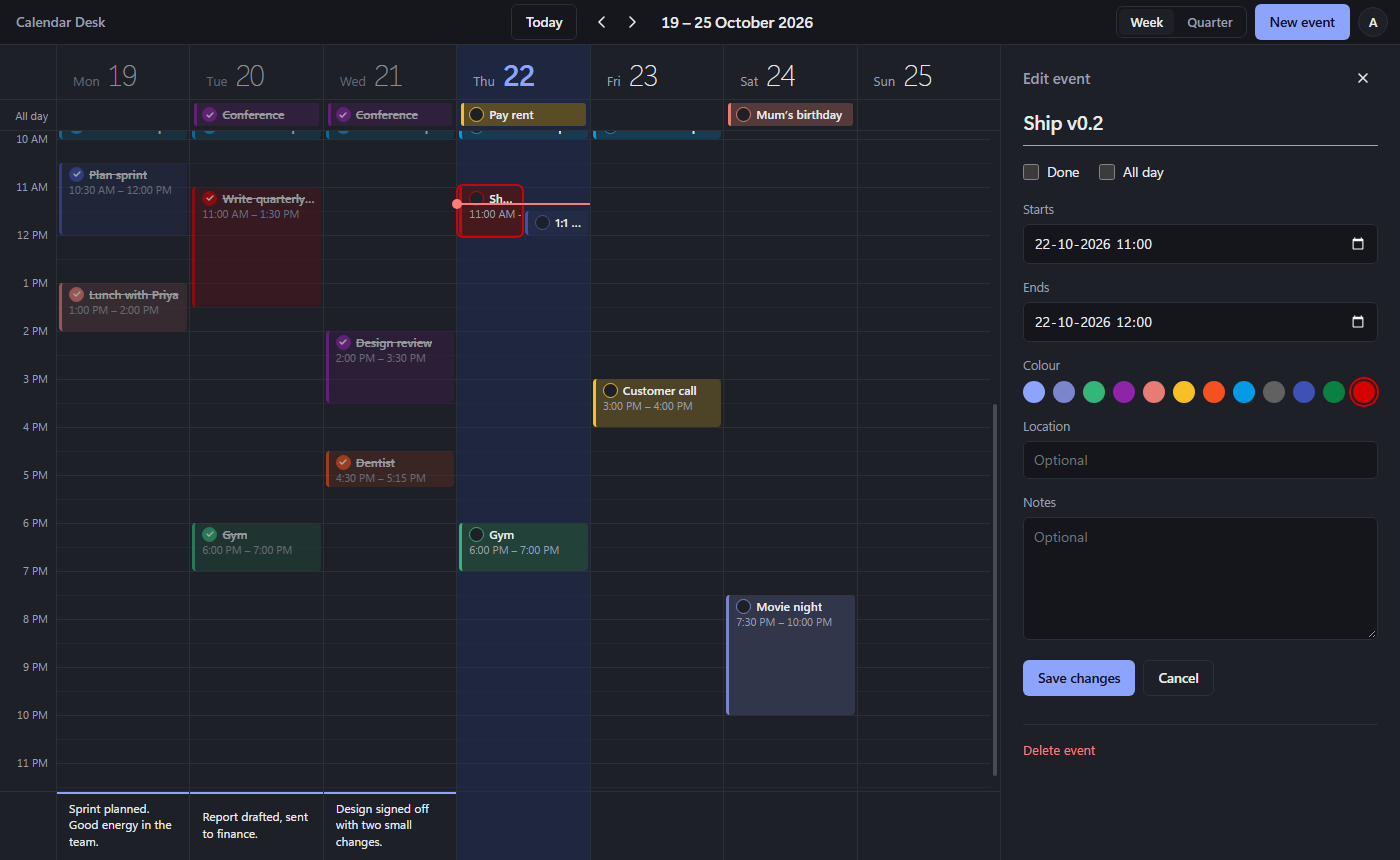
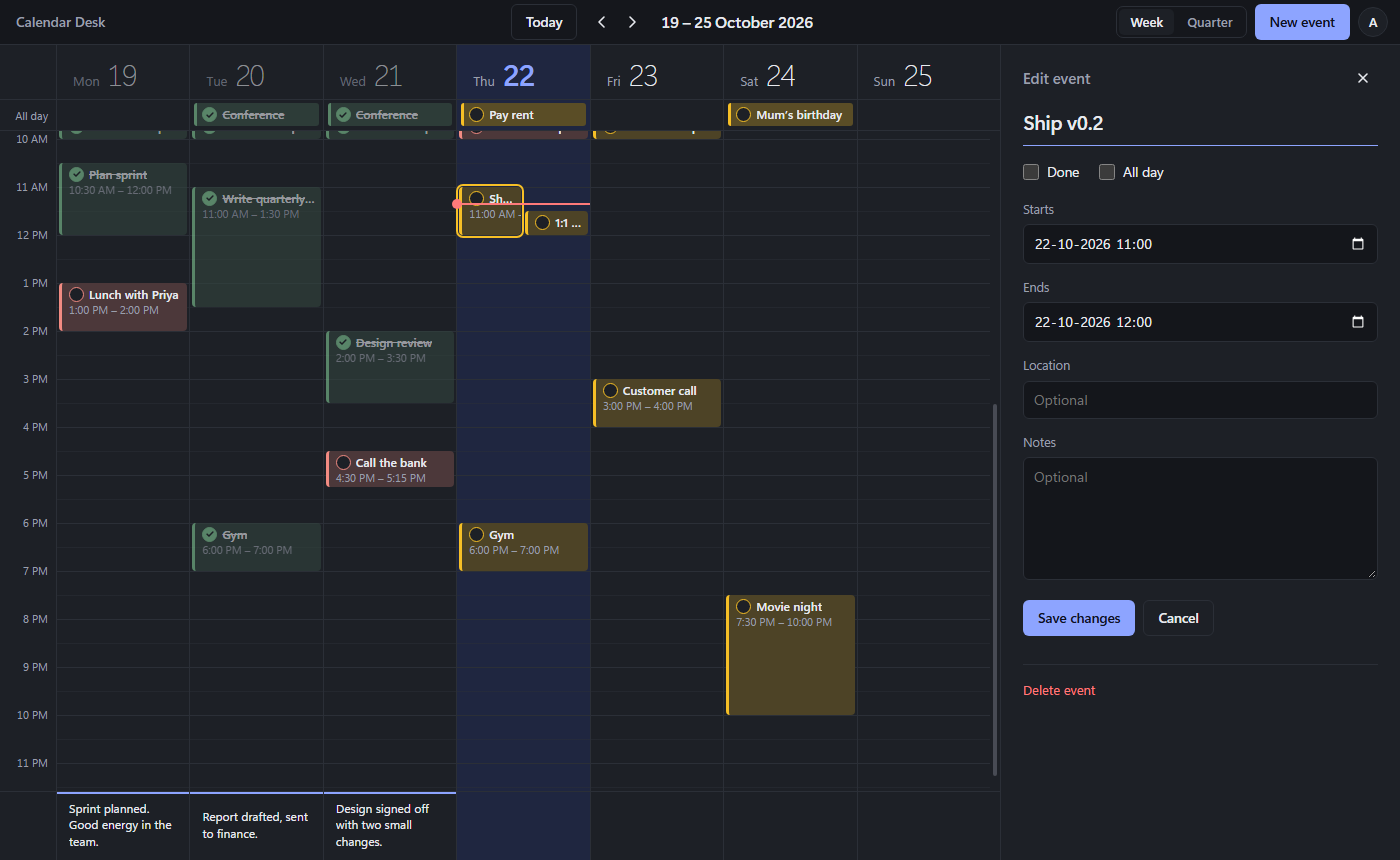
Colour events by status: yellow upcoming, red overdue, green done
Events are coloured live from the clock and the done tick instead of a
picked colour. An event turns red the minute its end time passes, and
green as soon as it is ticked. The colour picker is removed; colours set
in Google Calendar are kept on the event but not shown in the app.

README and screenshots updated to match.

diff --git a/src/renderer/src/components/WeekGrid.tsx b/src/renderer/src/components/WeekGrid.tsx
@@ -1,7 +1,8 @@
-import { useEffect, useLayoutEffect, useMemo, useRef, useState, type CSSProperties, type KeyboardEvent as ReactKeyboardEvent, type PointerEvent as ReactPointerEvent } from 'react'
+import { useLayoutEffect, useMemo, useRef, useState, type CSSProperties, type KeyboardEvent as ReactKeyboardEvent, type PointerEvent as ReactPointerEvent } from 'react'
 import type { CalendarEvent, DayNote, EventInput } from '../../../shared/types'
 import { addDays, dateKey, fmtDayName, fmtTime, isSameDay, startOfDay } from '../lib/dates'
-import { eventColor } from '../lib/colors'
+import { STATUS_LABEL, eventStatus, statusColor } from '../lib/colors'
+import { useNow } from '../lib/useNow'
 import DoneCheck from './DoneCheck'
 
 export const HOUR_PX = 48
@@ -128,12 +129,7 @@ export default function WeekGrid({ weekStart, events, notes, loading, selectedId
   const scrollRef = useRef<HTMLDivElement>(null)
   const downAt = useRef({ x: 0, y: 0 })
   const [drag, setDrag] = useState<Drag | null>(null)
-  const [now, setNow] = useState(() => new Date())
-
-  useEffect(() => {
-    const t = setInterval(() => setNow(new Date()), 60_000)
-    return () => clearInterval(t)
-  }, [])
+  const now = useNow()
 
   // First paint: scroll to a sensible hour instead of midnight.
   const scrolled = useRef(false)
@@ -312,7 +308,8 @@ export default function WeekGrid({ weekStart, events, notes, loading, selectedId
               <div
                 key={event.id}
                 className={`chip${event.id === selectedId ? ' is-selected' : ''}${event.done ? ' is-done' : ''}`}
-                style={{ '--c': eventColor(event.colorId) } as CSSProperties}
+                style={{ '--c': statusColor(event, now) } as CSSProperties}
+                title={`${event.summary} (${STATUS_LABEL[eventStatus(event, now)]})`}
               >
                 <DoneCheck event={event} onToggle={onToggleDone} />
                 <button type="button" className="chip__title" onClick={() => onSelect(event)}>
@@ -364,9 +361,9 @@ export default function WeekGrid({ weekStart, events, notes, loading, selectedId
                         height,
                         left: `calc(${(p.col / p.cols) * 100}% + 2px)`,
                         width: `calc(${100 / p.cols}% - 4px)`,
-                        '--c': eventColor(p.event.colorId)
+                        '--c': statusColor(p.event, now)
                       } as CSSProperties}
-                      title={`${p.event.summary}\n${fmtTime(p.event.start)} – ${fmtTime(p.event.end)}`}
+                      title={`${p.event.summary}\n${fmtTime(p.event.start)} – ${fmtTime(p.event.end)}\n${STATUS_LABEL[eventStatus(p.event, now)]}`}
                     >
                       <span className="tev__top">
                         <DoneCheck event={p.event} onToggle={onToggleDone} />

diff --git a/src/renderer/src/components/DayPanel.tsx b/src/renderer/src/components/DayPanel.tsx
@@ -1,7 +1,8 @@
 import { useCallback, useEffect, useRef, useState, type CSSProperties } from 'react'
 import type { CalendarEvent, DayNote } from '../../../shared/types'
 import { dateKey, fmtDayLong, fmtEventTime, fmtSavedAt, isSameDay } from '../lib/dates'
-import { eventColor } from '../lib/colors'
+import { eventStatus, statusColor } from '../lib/colors'
+import { useNow } from '../lib/useNow'
 import DoneCheck from './DoneCheck'
 
 interface Props {
@@ -22,6 +23,7 @@ const SAVE_DELAY = 700
 
 export default function DayPanel({ day, events, note, onSaveNote, onSelect, onToggleDone, onCreate, onOpenWeek, onClose, onReveal }: Props): React.JSX.Element {
   const key = dateKey(day)
+  const now = useNow()
   const [text, setText] = useState(note?.text ?? '')
   const [status, setStatus] = useState<Status>('idle')
   const [savedAt, setSavedAt] = useState<string | undefined>(note?.updatedAt)
@@ -116,10 +118,13 @@ export default function DayPanel({ day, events, note, onSaveNote, onSelect, onTo
           {events.length > 0 && `, ${events.filter((e) => e.done).length} done`}
         </h3>
         {events.map((e) => (
-          <div key={e.id} className={`event${e.allDay ? ' event--allday' : ''}${e.done ? ' is-done' : ''}`} style={{ '--c': eventColor(e.colorId) } as CSSProperties}>
+          <div key={e.id} className={`event${e.allDay ? ' event--allday' : ''}${e.done ? ' is-done' : ''}`} style={{ '--c': statusColor(e, now) } as CSSProperties}>
             <DoneCheck event={e} onToggle={onToggleDone} />
             <button type="button" className="event__body" onClick={() => onSelect(e)}>
-              <span className="event__time">{fmtEventTime(e)}</span>
+              <span className="event__time">
+                {fmtEventTime(e)}
+                {eventStatus(e, now) === 'overdue' && <span className="event__overdue"> · Overdue</span>}
+              </span>
               <span className="event__title">{e.summary}</span>
               {e.location && <span className="event__where">{e.location}</span>}
             </button>

diff --git a/src/renderer/src/styles.css b/src/renderer/src/styles.css
@@ -13,6 +13,11 @@
   --weekend: rgba(21, 24, 31, 0.035);
   --danger: #c62828;
 
+  /* Event status colours: upcoming, end time passed, ticked off. */
+  --status-upcoming: #e8a600;
+  --status-overdue: #d93025;
+  --status-done: #1e8e3e;
+
   --titlebar-h: 44px;
   --editor-w: 400px;
   --font: 'Segoe UI Variable Text', 'Segoe UI', system-ui, -apple-system, sans-serif;
@@ -34,6 +39,9 @@
     --today: #1f2640;
     --weekend: rgba(232, 234, 239, 0.035);
     --danger: #ff7a7a;
+    --status-upcoming: #f6bf26;
+    --status-overdue: #f28b82;
+    --status-done: #81c995;
   }
 }
 
@@ -628,7 +636,8 @@ textarea {
 }
 .tghost--pending {
   border-style: dashed;
-  background: color-mix(in srgb, var(--accent) 12%, transparent);
+  border-color: var(--status-upcoming);
+  background: color-mix(in srgb, var(--status-upcoming) 14%, transparent);
 }
 
 .tnow {
@@ -945,6 +954,10 @@ textarea {
 .event__title {
   font-weight: 600;
 }
+.event__overdue {
+  color: var(--status-overdue);
+  font-weight: 600;
+}
 .event:hover {
   background: color-mix(in srgb, var(--c) 24%, var(--surface));
 }
@@ -973,7 +986,7 @@ textarea {
 }
 .check.is-done {
   background: var(--c, var(--accent));
-  color: #fff;
+  color: var(--surface);
 }
 .tev.is-done,
 .chip.is-done,
@@ -1061,45 +1074,6 @@ textarea {
 .editor__toggles {
   display: flex;
   gap: 20px;
-}
-
-.swatches {
-  border: 0;
-  padding: 0;
-  margin-inline: 0;
-}
-.swatches legend {
-  padding: 0;
-  margin-bottom: 6px;
-  font-size: 12.5px;
-  color: var(--muted);
-}
-.swatches__row {
-  display: flex;
-  flex-wrap: wrap;
-  gap: 8px;
-}
-.swatch {
-  position: relative;
-  width: 22px;
-  height: 22px;
-  border-radius: 50%;
-  background: var(--c);
-  cursor: pointer;
-}
-.swatch input {
-  position: absolute;
-  inset: 0;
-  margin: 0;
-  opacity: 0;
-  cursor: pointer;
-}
-.swatch:has(input:checked) {
-  box-shadow: 0 0 0 2px var(--surface), 0 0 0 4px var(--c);
-}
-.swatch:has(input:focus-visible) {
-  outline: 2px solid var(--accent);
-  outline-offset: 4px;
 }
 
 .field {

diff --git a/src/renderer/src/components/EventEditor.tsx b/src/renderer/src/components/EventEditor.tsx
@@ -1,7 +1,6 @@
-import { useState, type CSSProperties, type FormEvent } from 'react'
+import { useState, type FormEvent } from 'react'
 import type { CalendarEvent, EventInput } from '../../../shared/types'
 import { addDays, dateKey, fromLocalInput, parseDateKey, toLocalInput } from '../lib/dates'
-import { EVENT_COLORS } from '../lib/colors'
 
 export type EditorState = { mode: 'create'; draft: EventInput } | { mode: 'edit'; event: CalendarEvent }
 
@@ -24,7 +23,8 @@ interface Form {
   end: string
   location: string
   description: string
-  /** '' means the calendar's default colour. */
+  /** Google's own colour, not editable here (the app colours by status);
+   *  carried through so saving doesn't wipe a colour set in Google Calendar. */
   colorId: string
   done: boolean
 }
@@ -165,16 +165,6 @@ export default function EventEditor({ state, busy, onClose, onSave, onDelete, on
           <label htmlFor="ev-end">Ends</label>
           <input id="ev-end" type={inputType} value={form.end} onChange={(e) => patch({ end: e.target.value })} disabled={busy} required />
         </div>
-        <fieldset className="field swatches" disabled={busy}>
-          <legend>Colour</legend>
-          <div className="swatches__row">
-            {[['', { name: 'Calendar default', hex: 'var(--accent)' }] as const, ...Object.entries(EVENT_COLORS)].map(([id, { name, hex }]) => (
-              <label key={id || 'default'} className="swatch" style={{ '--c': hex } as CSSProperties} title={name}>
-                <input type="radio" name="ev-color" value={id} checked={form.colorId === id} onChange={() => patch({ colorId: id })} aria-label={name} />
-              </label>
-            ))}
-          </div>
-        </fieldset>
         <div className="field">
           <label htmlFor="ev-where">Location</label>
           <input id="ev-where" type="text" value={form.location} onChange={(e) => patch({ location: e.target.value })} disabled={busy} placeholder="Optional" />

diff --git a/src/renderer/src/lib/colors.ts b/src/renderer/src/lib/colors.ts
@@ -1,19 +1,24 @@
-/** Google Calendar's event colour palette by colorId. Events without a
- *  colorId use the calendar's default, which the UI maps to the accent. */
-export const EVENT_COLORS: Record<string, { name: string; hex: string }> = {
-  '1': { name: 'Lavender', hex: '#7986cb' },
-  '2': { name: 'Sage', hex: '#33b679' },
-  '3': { name: 'Grape', hex: '#8e24aa' },
-  '4': { name: 'Flamingo', hex: '#e67c73' },
-  '5': { name: 'Banana', hex: '#f6bf26' },
-  '6': { name: 'Tangerine', hex: '#f4511e' },
-  '7': { name: 'Peacock', hex: '#039be5' },
-  '8': { name: 'Graphite', hex: '#616161' },
-  '9': { name: 'Blueberry', hex: '#3f51b5' },
-  '10': { name: 'Basil', hex: '#0b8043' },
-  '11': { name: 'Tomato', hex: '#d50000' }
+import type { CalendarEvent } from '../../../shared/types'
+import { parseDateKey } from './dates'
+
+export type EventStatus = 'upcoming' | 'overdue' | 'done'
+
+/** Done wins; otherwise an event is overdue once its end has passed. All-day
+ *  ends are exclusive dates, so a one-day event lapses at the next midnight. */
+export function eventStatus(e: CalendarEvent, now: Date): EventStatus {
+  if (e.done) return 'done'
+  const end = e.allDay ? parseDateKey(e.end) : new Date(e.end)
+  return end <= now ? 'overdue' : 'upcoming'
 }
 
-export function eventColor(colorId?: string): string {
-  return (colorId && EVENT_COLORS[colorId]?.hex) || 'var(--accent)'
+/** Status colours are worked out in the app only; Google's own colorId is
+ *  left alone. Values are theme tokens defined in styles.css. */
+export function statusColor(e: CalendarEvent, now: Date): string {
+  return `var(--status-${eventStatus(e, now)})`
+}
+
+export const STATUS_LABEL: Record<EventStatus, string> = {
+  upcoming: 'Not done',
+  overdue: 'Overdue',
+  done: 'Done'
 }

diff --git a/src/renderer/src/components/QuarterGrid.tsx b/src/renderer/src/components/QuarterGrid.tsx
@@ -2,7 +2,8 @@ import { useMemo, type CSSProperties } from 'react'
 import type { CalendarEvent, DayNote } from '../../../shared/types'
 import { addDays, addMonths, dateKey, daysInMonth, fmtMonthName, isSameDay } from '../lib/dates'
 import { groupEventsByDay } from '../lib/events'
-import { eventColor } from '../lib/colors'
+import { STATUS_LABEL, eventStatus, statusColor } from '../lib/colors'
+import { useNow } from '../lib/useNow'
 
 interface Props {
   quarterStart: Date
@@ -17,7 +18,7 @@ const MAX_BARS = 3
 const WEEKDAYS = ['Mon', 'Tue', 'Wed', 'Thu', 'Fri', 'Sat', 'Sun']
 
 export default function QuarterGrid({ quarterStart, events, notes, loading, openDay, onOpenDay }: Props): React.JSX.Element {
-  const today = new Date()
+  const today = useNow()
   const months = useMemo(() => [0, 1, 2].map((i) => addMonths(quarterStart, i)), [quarterStart])
   const byDay = useMemo(() => {
     const end = addMonths(quarterStart, 3)
@@ -63,7 +64,7 @@ export default function QuarterGrid({ quarterStart, events, notes, loading, open
                     {list.length > 0 && (
                       <span className="cell__bars">
                         {list.slice(0, MAX_BARS).map((e) => (
-                          <i key={e.id} className={e.done ? 'is-done' : undefined} style={{ '--c': eventColor(e.colorId) } as CSSProperties} title={e.done ? `${e.summary} (done)` : e.summary} />
+                          <i key={e.id} className={e.done ? 'is-done' : undefined} style={{ '--c': statusColor(e, today) } as CSSProperties} title={`${e.summary} (${STATUS_LABEL[eventStatus(e, today)]})`} />
                         ))}
                       </span>
                     )}

diff --git a/src/renderer/src/lib/useNow.ts b/src/renderer/src/lib/useNow.ts
@@ -1,0 +1,20 @@
+import { useEffect, useState } from 'react'
+
+/** The current time, refreshed on each minute boundary so overdue colours
+ *  and the now-line flip right when an event ends. */
+export function useNow(): Date {
+  const [now, setNow] = useState(() => new Date())
+  useEffect(() => {
+    let timer: ReturnType<typeof setTimeout>
+    const tick = (): void => {
+      const d = new Date()
+      setNow(d)
+      timer = setTimeout(tick, 60_000 - (d.getSeconds() * 1000 + d.getMilliseconds()))
+    }
+    timer = setTimeout(tick, 60_000 - (now.getSeconds() * 1000 + now.getMilliseconds()))
+    return () => clearTimeout(timer)
+    // Only the first render's time seeds the schedule.
+    // eslint-disable-next-line react-hooks/exhaustive-deps
+  }, [])
+  return now
+}

diff --git a/README.md b/README.md
@@ -12,7 +12,7 @@ See your week or your whole quarter at a glance, drag events into place, tick th
 ![Vite](https://img.shields.io/badge/electron--vite-6-646CFF?logo=vite&logoColor=white)
 ![Platform](https://img.shields.io/badge/platform-Windows-0078D4?logo=windows&logoColor=white)
 
-<img src="docs/week.png" alt="Calendar Desk week view: colour-coded events, ticked-off events struck through, and day summaries along the bottom" width="900">
+<img src="docs/week.png" alt="Calendar Desk week view: yellow upcoming events, red overdue events, green ticked-off events, and day summaries along the bottom" width="900">
 
 </div>
 
@@ -24,20 +24,20 @@ See your week or your whole quarter at a glance, drag events into place, tick th
 |---|---|
 | 🗓 **Week and quarter views** | A time grid for the current week, or three months side by side. Switch with `W` / `Q`. |
 | 🖱 **Drag to plan** | Click or drag on empty space to create an event. Drag an event to move it, or drag its bottom edge to change its length. |
-| ✅ **Done / not done** | Every event has a round tick. Click it to mark the event done: it's struck through and faded everywhere it appears. |
-| 🎨 **Colour coding** | Pick from Google Calendar's 11 colours. They sync both ways with Google Calendar on the web and on your phone. |
+| ✅ **Done / not done** | Every event has a round tick. Click it to mark the event done: it turns green and is struck through everywhere it appears. |
+| 🚦 **Status colours** | 🟡 **Yellow**: coming up or in progress · 🔴 **Red**: its end time has passed and it isn't ticked · 🟢 **Green**: done. Events turn red the minute they end, with no refresh needed. |
 | 📝 **Private day summaries** | Write a note for any day. It autosaves to a JSON file on your PC and is **never** sent to Google. |
 | 🔐 **Stays signed in, safely** | OAuth with PKCE in the main process. Tokens are encrypted with Windows DPAPI. |
 | 🌗 **Light and dark** | Follows your Windows theme, including the custom title bar. |
 
 <table>
   <tr>
-    <td><img src="docs/editor.png" alt="Event editor with done checkbox and colour picker"></td>
-    <td><img src="docs/quarter.png" alt="Quarter view: three months with colour bars per day"></td>
+    <td><img src="docs/editor.png" alt="Event editor with a Done checkbox"></td>
+    <td><img src="docs/quarter.png" alt="Quarter view: three months with a status-coloured bar per event"></td>
   </tr>
   <tr>
-    <td align="center"><sub>Editor: done checkbox and colour picker</sub></td>
-    <td align="center"><sub>Quarter view: done events fade, folded corners mark days with a summary</sub></td>
+    <td align="center"><sub>Editor: title, times, Done checkbox, location and notes</sub></td>
+    <td align="center"><sub>Quarter view: a status-coloured bar per event, folded corners mark days with a summary</sub></td>
   </tr>
 </table>
 
@@ -91,7 +91,7 @@ This produces `dist/Calendar Desk Setup 0.1.0.exe` (NSIS, x64). Run it on Window
 | Create an event | **New event**, the **+** in a day header, a click or drag on empty grid space, or a click on the all-day row |
 | Edit an event | Click it. Drag it to move, drag its bottom edge to resize |
 | Mark done | Click the round tick on the event, or use **Done** in the editor |
-| Change colour | Pick a swatch under **Colour** in the editor |
+| Read the colours | Yellow is upcoming, red is overdue, green is done. Hover an event to see its status |
 | Open a day | Click a day's name in the week view, or any day in the quarter view |
 | Close the side panel | `Esc` |
 | Sign out | Avatar at the top right. This also revokes the app's access at Google |
@@ -100,7 +100,8 @@ This produces `dist/Calendar Desk Setup 0.1.0.exe` (NSIS, x64). Run it on Window
 
 | What | Where | Leaves your PC? |
 |---|---|---|
-| Events, colours | Your primary Google Calendar | Yes, it's Google Calendar |
+| Events | Your primary Google Calendar | Yes, it's Google Calendar |
+| Status colours | Worked out live in the app from the clock and the tick. Nothing is stored, and colours set in Google Calendar are left untouched | No |
 | Done ticks | A private property on each event, only readable by this app | Yes, so ticks follow you to other PCs |
 | Day summaries | `%APPDATA%\calendar-desk\day-notes.json` | **No, never** |
 | Sign-in tokens | `%APPDATA%\calendar-desk\google-auth.bin`, encrypted with DPAPI | No |
@@ -116,14 +117,14 @@ src/
   main/
     index.ts      window, custom title bar, IPC handlers, lifecycle
     auth.ts       OAuth loopback + PKCE, encrypted token store, sign-out/revoke
-    calendar.ts   list (paginated) / insert / patch / delete, done flag, colours
+    calendar.ts   list (paginated) / insert / patch / delete, done flag
     notes.ts      local day summaries: atomic JSON writes, no network
   preload/
     index.ts      contextBridge → window.api (typed in shared/types.ts)
   renderer/src/
     App.tsx       auth, view mode and navigation, data loading, side-panel state
     components/   SignIn, TopBar, WeekGrid, QuarterGrid, DayPanel, EventEditor, DoneCheck
-    lib/          date helpers, event grouping, Google colour palette
+    lib/          date helpers, event grouping, status colours, live clock
   shared/
     types.ts      CalendarEvent, EventInput, the Api contract
 ```
